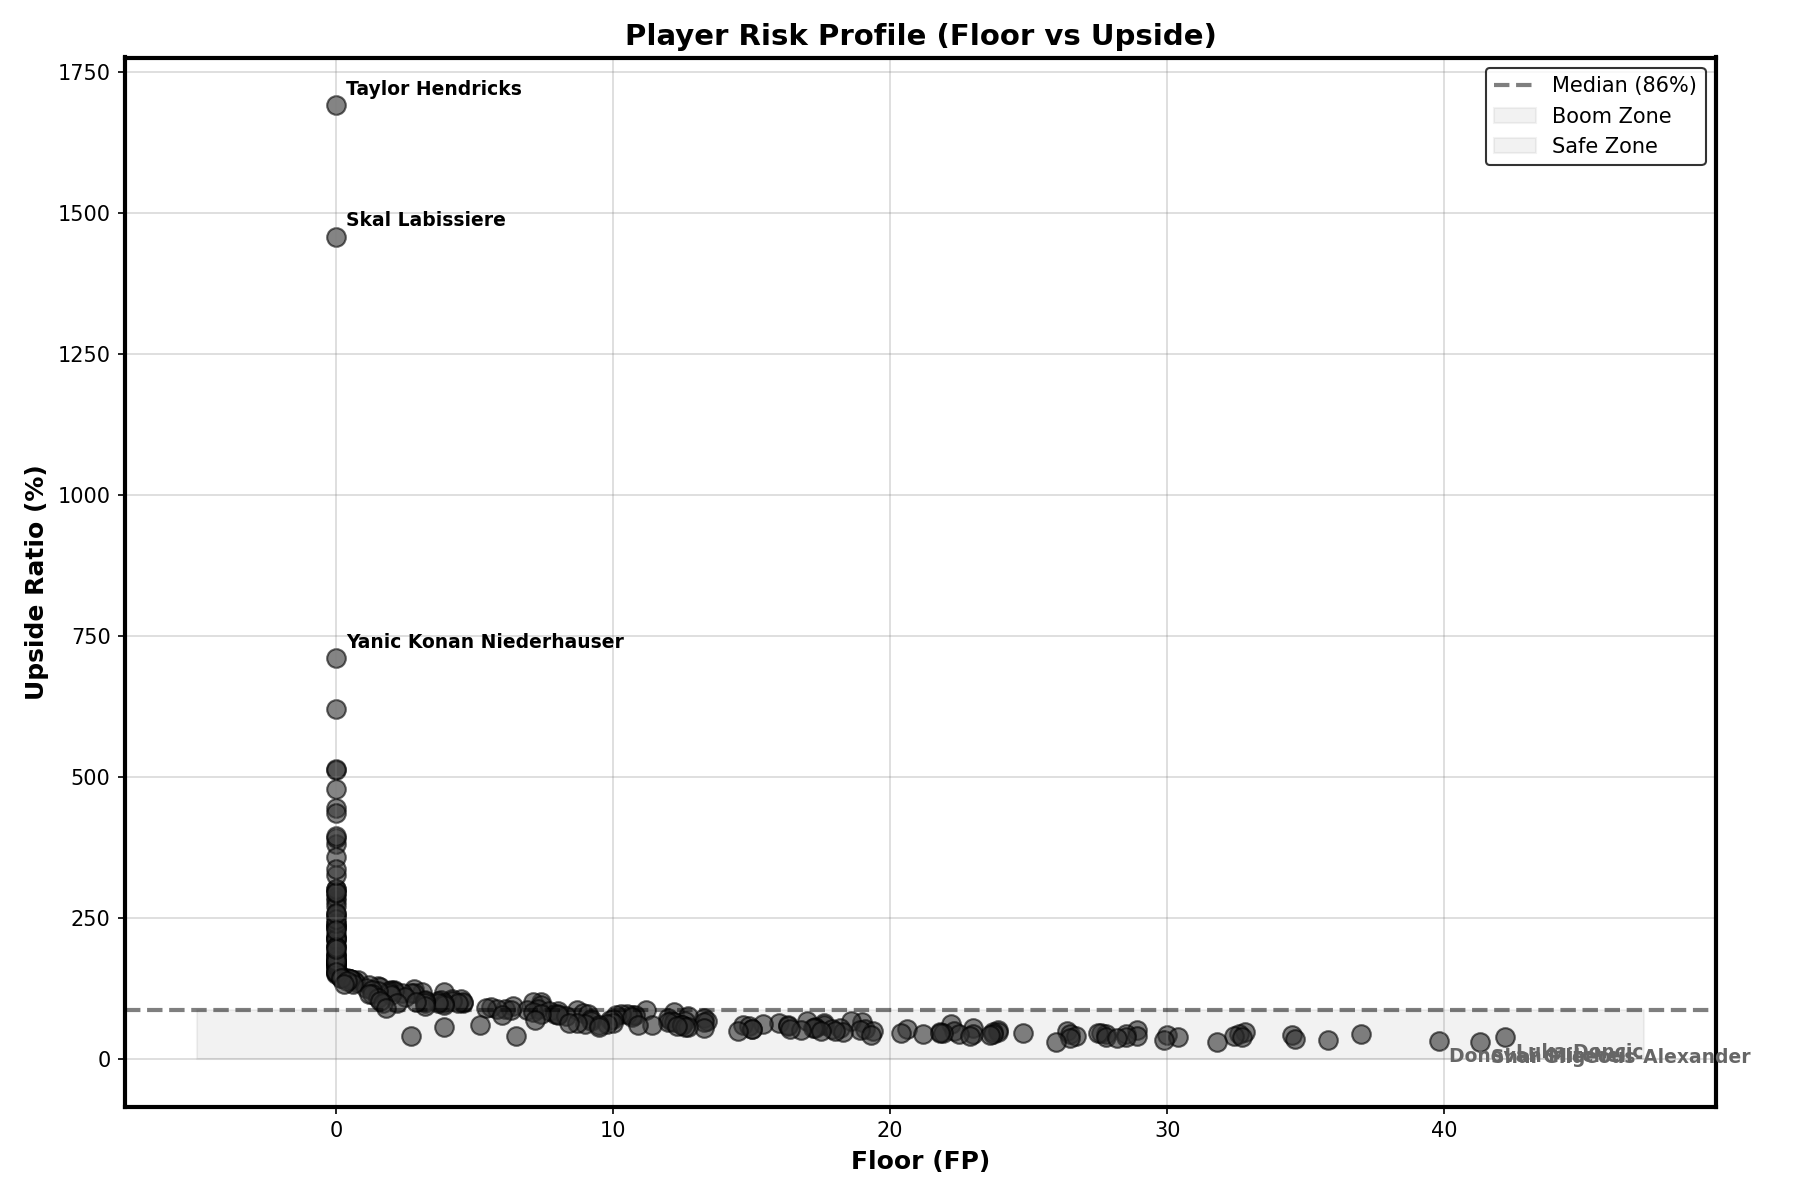
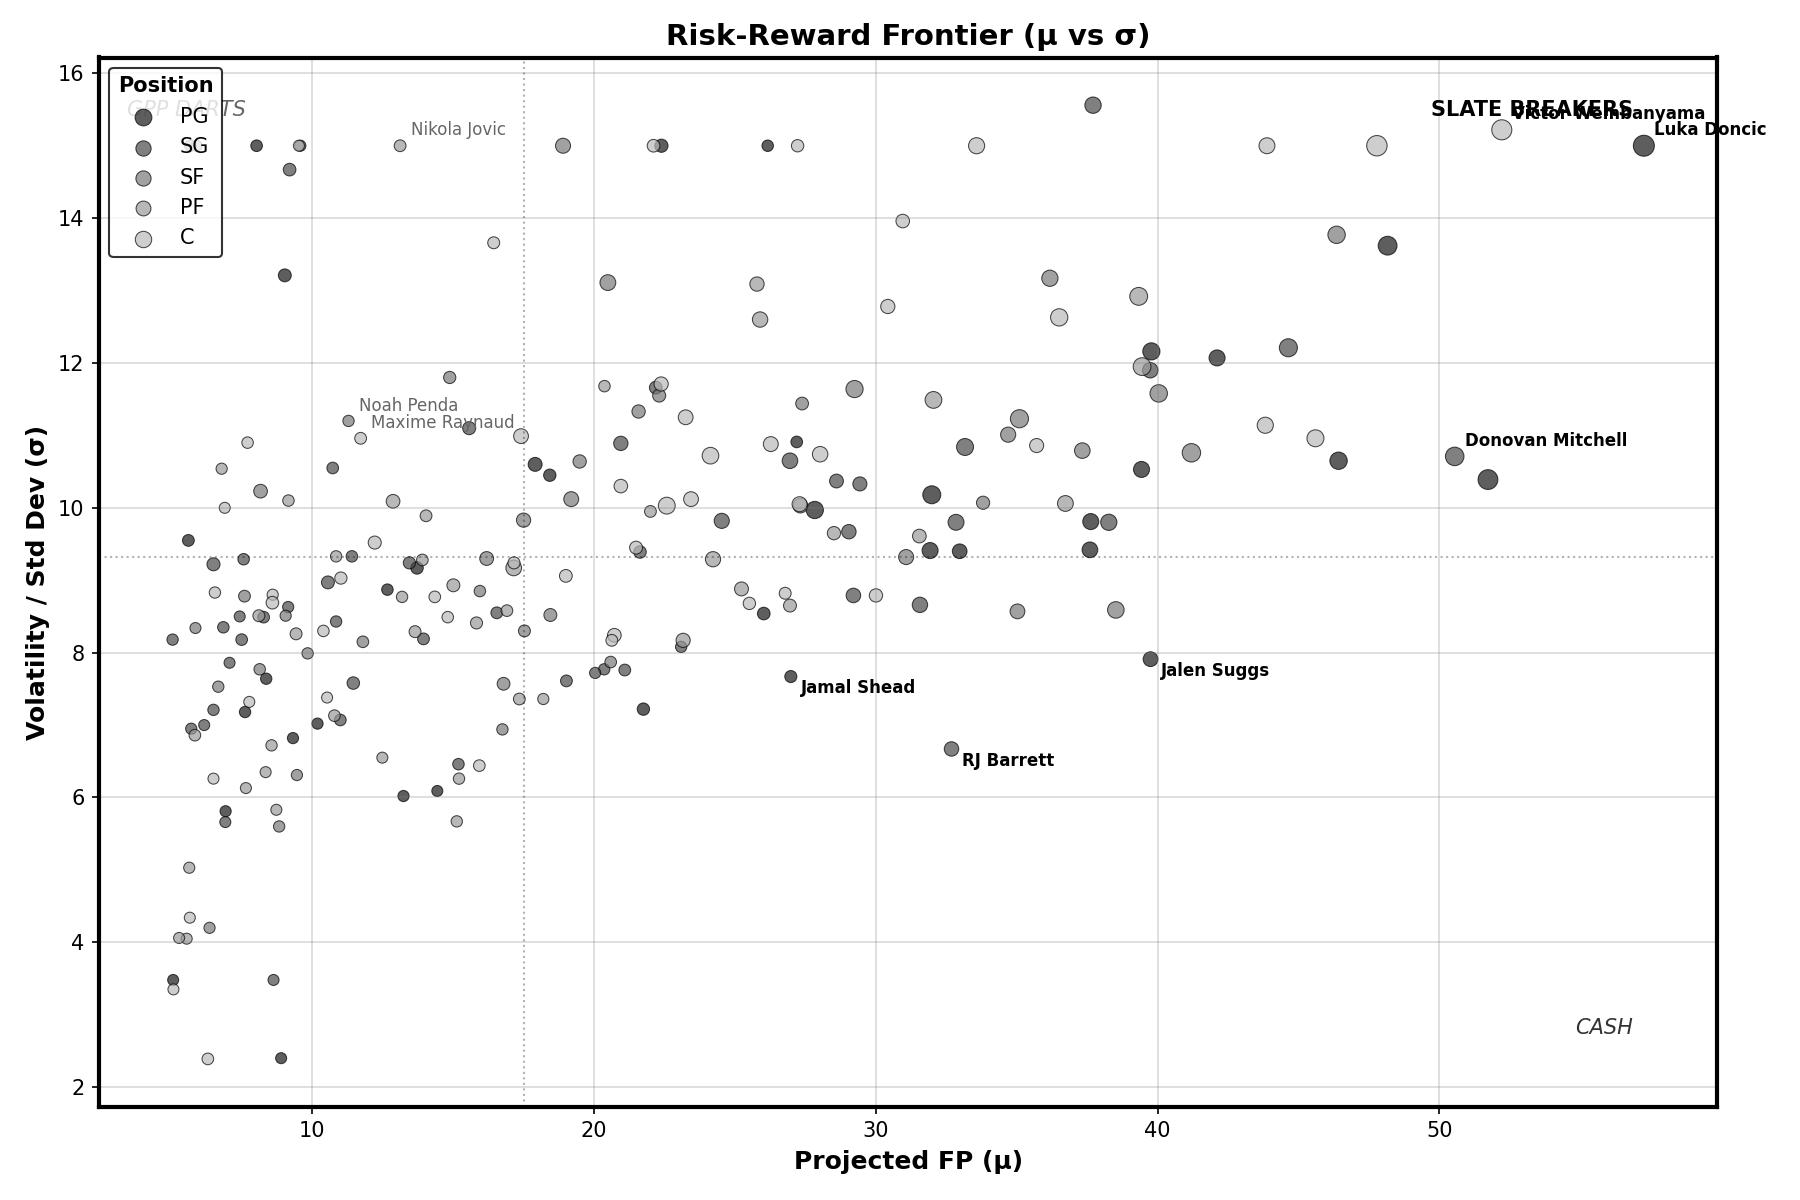
Update the chart to show risk and reward for player performance
Replace the floor vs. upside ratio chart with a μ vs. σ scatter plot, visualizing player projected fantasy points against their standard deviation, with dot size representing salary and color representing position.

Replit-Commit-Author: Agent
Replit-Commit-Session-Id: 77c6f695-5fdd-489f-8cef-530d7e46efea
Replit-Commit-Checkpoint-Type: full_checkpoint
Replit-Commit-Event-Id: 5cc919c4-0bc5-4c70-9b22-dd87a6102efe
Replit-Commit-Screenshot-Url: https://storage.googleapis.com/screenshot-production-us-central1/041ea045-1712-4eb6-a52b-4e58dc819458/77c6f695-5fdd-489f-8cef-530d7e46efea/AOpwEJr
Replit-Helium-Checkpoint-Created: true

diff --git a/analysis/player_value.py b/analysis/player_value.py
@@ -180,43 +180,69 @@ def generate_value_chart(players_df, output_path='static/images/value_chart.png'
     return output_path
 
 def generate_upside_chart(players_df, output_path='static/images/upside_chart.png'):
-    """Generate floor vs upside ratio chart showing boom potential vs safety."""
+    """Generate μ vs σ scatter plot - the core risk-reward frontier chart."""
     Path(output_path).parent.mkdir(parents=True, exist_ok=True)
     
     df = players_df.copy()
-    df = df[df['upside_ratio'].notna() & df['floor'].notna()]
+    df = df[df['proj_fp'].notna() & df['fp_sd'].notna() & (df['proj_fp'] > 5)]
+    
+    position_colors = {
+        'PG': '#1a1a1a',
+        'SG': '#4a4a4a',
+        'SF': '#7a7a7a',
+        'PF': '#9a9a9a',
+        'C': '#bababa'
+    }
     
     fig, ax = plt.subplots(figsize=(12, 8))
     fig.patch.set_facecolor('white')
     ax.set_facecolor('white')
     
-    ax.scatter(df['floor'], df['upside_ratio'] * 100, c='#333333', alpha=0.6, s=80, edgecolors='black', linewidths=1)
+    for pos in ['PG', 'SG', 'SF', 'PF', 'C']:
+        pos_df = df[df['true_position'] == pos]
+        if len(pos_df) == 0:
+            continue
+        
+        sizes = (pos_df['salary'] / 1000) * 8
+        ax.scatter(pos_df['proj_fp'], pos_df['fp_sd'], 
+                  c=position_colors.get(pos, '#333'),
+                  s=sizes, alpha=0.7, edgecolors='black', linewidths=0.5,
+                  label=pos)
     
-    median_upside = df['upside_ratio'].median() * 100
-    ax.axhline(y=median_upside, color='black', linestyle='--', linewidth=2, alpha=0.5, label=f'Median ({median_upside:.0f}%)')
-    
-    ax.fill_between([df['floor'].min() - 5, df['floor'].max() + 5], median_upside, df['upside_ratio'].max() * 100 + 10,
-                    alpha=0.1, color='gray', label='Boom Zone')
-    ax.fill_between([df['floor'].min() - 5, df['floor'].max() + 5], 0, median_upside,
-                    alpha=0.05, color='black', label='Safe Zone')
-    
-    high_upside = df.nlargest(5, 'upside_ratio')
-    for _, player in high_upside.iterrows():
+    cash_plays = df[(df['proj_fp'] > df['proj_fp'].quantile(0.7)) & (df['fp_sd'] < df['fp_sd'].quantile(0.3))]
+    for _, player in cash_plays.head(3).iterrows():
         ax.annotate(player['player_name'],
-                   (player['floor'], player['upside_ratio'] * 100),
+                   (player['proj_fp'], player['fp_sd']),
+                   xytext=(5, -8), textcoords='offset points',
+                   fontsize=8, fontweight='bold', color='black')
+    
+    gpp_darts = df[(df['proj_fp'] < df['proj_fp'].quantile(0.4)) & (df['fp_sd'] > df['fp_sd'].quantile(0.7))]
+    for _, player in gpp_darts.head(3).iterrows():
+        ax.annotate(player['player_name'],
+                   (player['proj_fp'], player['fp_sd']),
                    xytext=(5, 5), textcoords='offset points',
-                   fontsize=9, fontweight='bold', color='black')
+                   fontsize=8, color='#666')
     
-    high_floor = df.nlargest(3, 'floor')
-    for _, player in high_floor.iterrows():
-        if player['player_name'] not in high_upside['player_name'].values:
-            ax.annotate(player['player_name'],
-                       (player['floor'], player['upside_ratio'] * 100),
-                       xytext=(5, -10), textcoords='offset points',
-                       fontsize=9, fontweight='bold', color='#666')
+    slate_breakers = df[(df['proj_fp'] > df['proj_fp'].quantile(0.8)) & (df['fp_sd'] > df['fp_sd'].quantile(0.7))]
+    for _, player in slate_breakers.head(3).iterrows():
+        ax.annotate(player['player_name'],
+                   (player['proj_fp'], player['fp_sd']),
+                   xytext=(5, 5), textcoords='offset points',
+                   fontsize=8, fontweight='bold', color='black')
     
-    apply_chart_style(ax, 'Player Risk Profile (Floor vs Upside)', 'Floor (FP)', 'Upside Ratio (%)')
-    ax.legend(loc='upper right', frameon=True, edgecolor='black', facecolor='white')
+    mu_median = df['proj_fp'].median()
+    sigma_median = df['fp_sd'].median()
+    ax.axvline(x=mu_median, color='black', linestyle=':', linewidth=1, alpha=0.3)
+    ax.axhline(y=sigma_median, color='black', linestyle=':', linewidth=1, alpha=0.3)
+    
+    ax.text(ax.get_xlim()[1] * 0.95, ax.get_ylim()[0] + 1, 'CASH', ha='right', fontsize=10, color='#333', style='italic')
+    ax.text(ax.get_xlim()[0] + 1, ax.get_ylim()[1] * 0.95, 'GPP DARTS', ha='left', fontsize=10, color='#666', style='italic')
+    ax.text(ax.get_xlim()[1] * 0.95, ax.get_ylim()[1] * 0.95, 'SLATE BREAKERS', ha='right', fontsize=10, color='black', fontweight='bold')
+    
+    apply_chart_style(ax, 'Risk-Reward Frontier (μ vs σ)', 'Projected FP (μ)', 'Volatility / Std Dev (σ)')
+    
+    legend = ax.legend(loc='upper left', frameon=True, edgecolor='black', facecolor='white', title='Position')
+    legend.get_title().set_fontweight('bold')
     
     plt.tight_layout()
     plt.savefig(output_path, dpi=150, facecolor='white', edgecolor='black')
